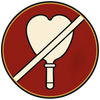
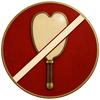
Give out-of-command gunbai a restrained realistic Sengoku finish

diff --git a/素材/状态图标/v1/README.md b/素材/状态图标/v1/README.md
@@ -3,11 +3,11 @@
 本目录提供两个独立的状态图标，均为**暗朱红实心圆章、圆外透明**，尚未接入 TTS Global Lua：
 
 - **交戦 / `engaged`**：象牙色交叉太刀。沿用用户选定的红色版本，三份图标导出和既有定位均保持 revision 4 原样。
-- **指揮外 / `out_of_command`**：象牙色军配配合带深色描边的粗斜杠，表示与指挥失联；这是本次新增初稿。
+- **指揮外 / `out_of_command`**：较写实的战国漆木军配，配以克制的旧金属包边和材质质感、象牙色斜杠及暗朱红圆章；此次去除粗黑卡通轮廓。
 
 两者都按 **100 × 100** 显示，分别位于标题栏左右两侧，**可以同时出现，不能作为互斥状态复用一个位置**。
 
-[指揮外与双状态总览](./out_of_command_总览.jpg) · [交戦既有总览](./总览.jpg) · [manifest.json](./manifest.json)
+当前新版只提供独立图标：[指揮外 512 PNG](./out_of_command.png) · [100 PNG](./out_of_command-100.png) · [1024 源图](./源图/out_of_command-1024.png) · [manifest.json](./manifest.json)。按用户要求，本轮不生成总览、棋面或其他预览图。
 
 ## 文件与尺寸
 
@@ -16,9 +16,9 @@
 | `engaged` | [engaged.png](./engaged.png) | 512 × 512 | 3 / 4 / 3 / 4 px |
 | `engaged` | [engaged-100.png](./engaged-100.png) | 100 × 100 | 0 / 0 / 0 / 0 px |
 | `engaged` | [源图/engaged-1024.png](./源图/engaged-1024.png) | 1024 × 1024 | 10 / 12 / 10 / 12 px |
-| `out_of_command` | [out_of_command.png](./out_of_command.png) | 512 × 512 | 3 / 3 / 3 / 4 px |
+| `out_of_command` | [out_of_command.png](./out_of_command.png) | 512 × 512 | 3 / 4 / 3 / 5 px |
 | `out_of_command` | [out_of_command-100.png](./out_of_command-100.png) | 100 × 100 | 0 / 0 / 0 / 0 px |
-| `out_of_command` | [源图/out_of_command-1024.png](./源图/out_of_command-1024.png) | 1024 × 1024 | 10 / 11 / 10 / 12 px |
+| `out_of_command` | [源图/out_of_command-1024.png](./源图/out_of_command-1024.png) | 1024 × 1024 | 10 / 13 / 10 / 14 px |
 
 六份 PNG 均使用 RGBA 透明通道。512 px 版作为稳定的接入路径，100 px 版按建议显示尺寸导出，1024 px 版供后续调整。尺寸、alpha 外接矩形、留白和 SHA-256 均记录在 manifest 中。
 
@@ -35,27 +35,31 @@
 
 现有标题栏内部为 `x=14..997, y=14..197`。全部兵种标题的最右边界为 `x=885`（半开边界，最右可见像素为 884），以「鉄砲足軽隊／鉄砲僧兵隊」最紧。曾讨论的中心 `x=930` 会使 100 px 画布进入部分五字标题区域，因此本稿采用中心 `x=942`。两个图标的位置围绕标题栏中心 `x=506` 对称，四字与五字名称使用相同定位，无需移动或缩小已烘焙的标题，也不修改现有 96 张成品。
 
-## 效果预览
+## 历史预览 · revision 5 旧稿
 
-以下预览均为 **1200 × 1200**。双状态图中，交戦位于左侧，指揮外位于右侧：
+**以下指揮外和双状态预览均保留 revision 5 旧稿，不显示本次 revision 6 的新版图标，不能作为当前效果。** 文件原样保留；manifest 已将这些引用移入 `previous_revision_previews`。交戦素材本轮未改动，其既有预览另行保留。
 
-| 场景 | 指揮外单独显示 | 双状态同时显示 | 交戦既有预览 |
+[revision 5 指揮外与双状态旧总览](./out_of_command_总览.jpg) · [交戦既有总览](./总览.jpg)
+
+以下棋面图均为 **1200 × 1200**；双状态旧稿中，交戦位于左侧，指揮外位于右侧：
+
+| 场景 | 指揮外旧稿 | 双状态旧稿 | 交戦既有预览 |
 | --- | --- | --- | --- |
 | 五字标题／武田红正面 | [查看](./预览/out_of_command_武田红_1200.png) | [查看](./预览/双状态_武田红_1200.png) | [查看](./预览/engaged_武田红_1200.png) |
 | 四字标题／白色正面 | [查看](./预览/out_of_command_四字标题_1200.png) | [查看](./预览/双状态_四字标题_1200.png) | [查看](./预览/engaged_四字标题_1200.png) |
 | 五字标题／金色正面 | [查看](./预览/out_of_command_五字标题_1200.png) | [查看](./预览/双状态_五字标题_1200.png) | [查看](./预览/engaged_五字标题_1200.png) |
 | 炭灰背面示意 | [查看](./预览/out_of_command_炭灰示意_1200.png) | [查看](./预览/双状态_炭灰示意_1200.png) | [查看](./预览/engaged_炭灰示意_1200.png) |
 
-- [双状态标题栏原尺寸细节](./预览/out_of_command_标题栏细节.jpg)
-- [双状态棋面缩至 300 px 的检查图](./预览/out_of_command_缩远检查.jpg)
-- [八种家族底色的双状态五字标题栏](./预览/双状态_八色标题栏.jpg)
+- [revision 5 双状态标题栏旧稿](./预览/out_of_command_标题栏细节.jpg)
+- [revision 5 双状态缩远旧稿](./预览/out_of_command_缩远检查.jpg)
+- [revision 5 双状态八色标题栏旧稿](./预览/双状态_八色标题栏.jpg)
 - 交戦既有检查图：[标题栏细节](./预览/engaged_标题栏细节.jpg)、[缩远检查](./预览/engaged_缩远检查.jpg)、[八色标题栏](./预览/engaged_八色标题栏.jpg)。
 
 炭灰示意采用 `#24262B`，用于检查图标对比与标题留位，**不是 TTS 实机截图，也不是已确认的背面贴图**。棋面缩至 300 px 时，每个圆章只占 25 px，军配、斜杠及交叉刀形需在该尺度辨识；刀柄、刀镡等细节会减弱。最终显示效果仍需在 TTS 实际缩放和倾斜视角下验收。
 
 ## 代码侧交接
 
-- 本次为 **`revision: 5`**，新增 `out_of_command` 初稿。`engaged` 的既有 manifest 条目、三个 PNG 导出及定位保持不变；红色图标仍与 revision 2（提交 `abadd9f`）一致。
+- 本次为 **`revision: 6`**，重绘 `out_of_command` 为较写实的战国风格，仍按 100 × 100 显示，左上 `(892,56)`、中心 `(942,106)`。本轮不更新预览，当前效果以独立图标为准。`engaged` 的既有 manifest 条目、三个 PNG 导出及定位保持不变；红色图标仍与 revision 2（提交 `abadd9f`）一致。
 - 固定标识为 `engaged` 和 `out_of_command`，分别登记资源并独立控制显示／隐藏。两者允许同时显示，不能互斥切换同一节点或复用同一坐标。
 - 两个 `cloud_url` 均为空。仓库预览链接不代表已配置或已验证的 TTS 图片资源；需要代码侧选定图片托管、登记资源并验证加载。
 - 本稿仅交接图片、尺寸和定位。状态如何触发、保存／恢复及清除由代码侧按已确认规则处理；这里不推测交战或指挥范围的自动判定、回合重置等逻辑。
@@ -69,6 +73,6 @@
 
 美术分支 `codex/art-status-icons` 从最新 `main` 的 `8c7aaa731f124eb693a23800402a65033806975f` 创建，使用独立工作目录。未合并 PR #2；本次交接仅写在此目录，公共 HANDOFF 由代码侧整合。
 
-本次静态检查范围为：六份 PNG 的尺寸及真实透明通道、圆章内部与圆外透明情况、留白和 SHA-256 与 manifest 一致；左右图标在全部兵种标题外的安全间距；单图标和双图标的八色／炭灰对比及缩远效果；正面预览在图标区域之外保持原像素；既有交戦导出及新素材目录以外的文件不变。没有修改 `tts/`、`tests/`、`tools/tts/` 或 `troop-cards-download` 分支。
+本轮仅核对指揮外新导出的尺寸、透明通道、留白及 SHA-256 元数据，并保留既有交戦和定位。八色／炭灰棋面、双状态缩远和标题栏的旧预览检查属于 revision 5，不作为新版图形的验收结果；本轮未生成或重新检查这些预览。没有修改 `tts/`、`tests/`、`tools/tts/` 或 `troop-cards-download` 分支。
 
-本轮未运行 Lua／MoonSharp 检查（仅新增美术），也未进行 TTS 实机渲染、联机或斜视验收。新增指揮外图标仍为待用户确认的初稿。
+本轮未运行 Lua／MoonSharp 检查（仅新增美术），也未进行 TTS 实机渲染、联机或斜视验收。本次指揮外重绘仍为待用户确认的初稿。
